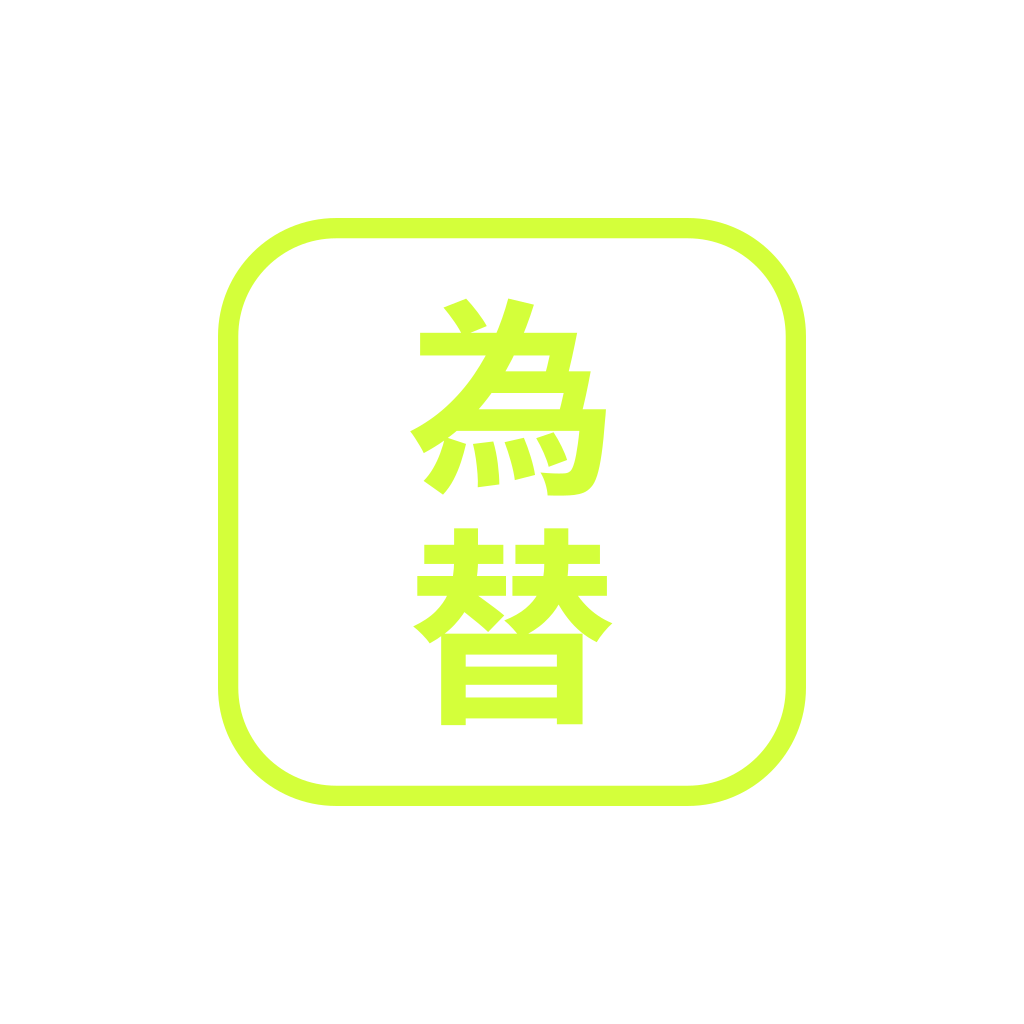
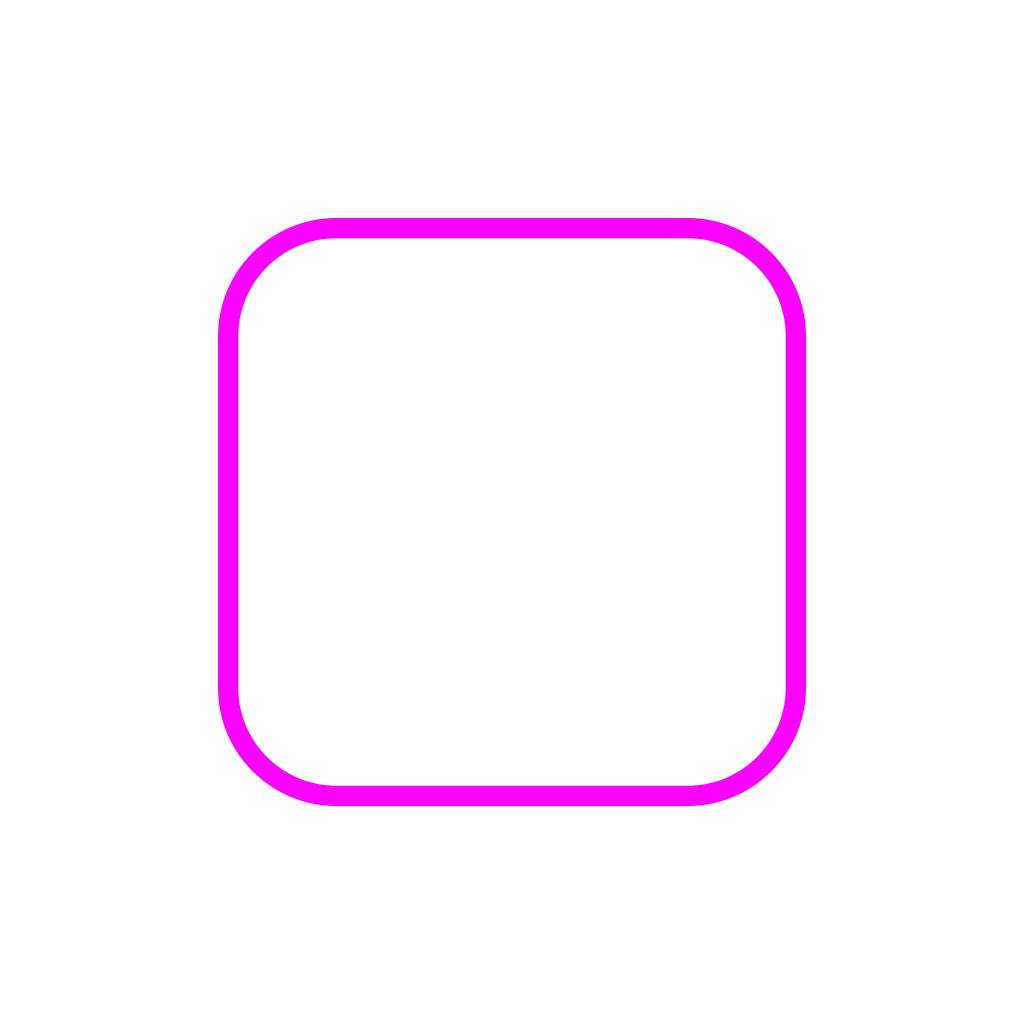
brand: Kawase in the Senryo look — black tile, white 為替, magenta seal ring; a light splash
App icon, Android adaptive icon, favicon, splash and the registry's Kawase mark were still Lime on Ink. The in-app
KawaseMark's ring follows the accent (#FA00FF); the splash and web shell open light (#F5F5F5).

Changed region(s): [[0.1875, 0.1875, 0.8125, 0.8125], [0.4062, 0.2812, 0.5938, 0.7188]]

diff --git a/packages/identity/src/registry.ts b/packages/identity/src/registry.ts
@@ -191,7 +191,7 @@ export const ENTITIES: readonly Entity[] = [
   { id: providerKey("apple"), kind: "provider", name: "Apple", brandColor: "#000000", shape: "uncontained", marks: { color: "apple", mono: "apple-mono" } },
   { id: providerKey("google"), kind: "provider", name: "Google", brandColor: "#4285F4", shape: "uncontained", marks: { color: "google", mono: "google-mono" } },
   { id: providerKey("circle"), kind: "provider", name: "Circle", brandColor: "#00E599", shape: "uncontained", marks: { color: "circle", mono: "circle-mono" } },
-  { id: providerKey("kawase"), kind: "provider", name: "Kawase", brandColor: "#D4FF3A", shape: "tile", marks: { color: "kawase", mono: "kawase-mono" } },
+  { id: providerKey("kawase"), kind: "provider", name: "Kawase", brandColor: "#111111", shape: "tile", marks: { color: "kawase", mono: "kawase-mono" } },
   { id: providerKey("morpho"), kind: "provider", name: "Morpho", brandColor: "#15181A", shape: "tile", marks: { color: "morpho", mono: "morpho-mono" } },
   { id: providerKey("aave"), kind: "provider", name: "Aave", brandColor: "#9391F7", shape: "disc", marks: { color: "aave", mono: "aave-mono" } },
   { id: providerKey("aero"), kind: "provider", name: "Aero", brandColor: "#154AFA", shape: "uncontained", marks: { color: "aero", mono: "aero-mono" } },

diff --git a/packages/ui-native/src/components/art/kawase-mark.tsx b/packages/ui-native/src/components/art/kawase-mark.tsx
@@ -25,7 +25,7 @@ type KawaseMarkProps = {
 
 const DEFAULT_SIZE = 64;
 
-export function KawaseMark({ size = DEFAULT_SIZE, mono, ink = tokens.themes.dark.background, lime = tokens.themes.dark.primary }: KawaseMarkProps) {
+export function KawaseMark({ size = DEFAULT_SIZE, mono, ink = tokens.themes.dark.background, lime = tokens.themes.light.accent }: KawaseMarkProps) {
   const column = GLYPH_SIZE * 2 + GLYPH_GAP;
   const x = MARK_VIEWBOX * HALF - GLYPH_SIZE * HALF;
   const y = MARK_VIEWBOX * HALF - column * HALF;
